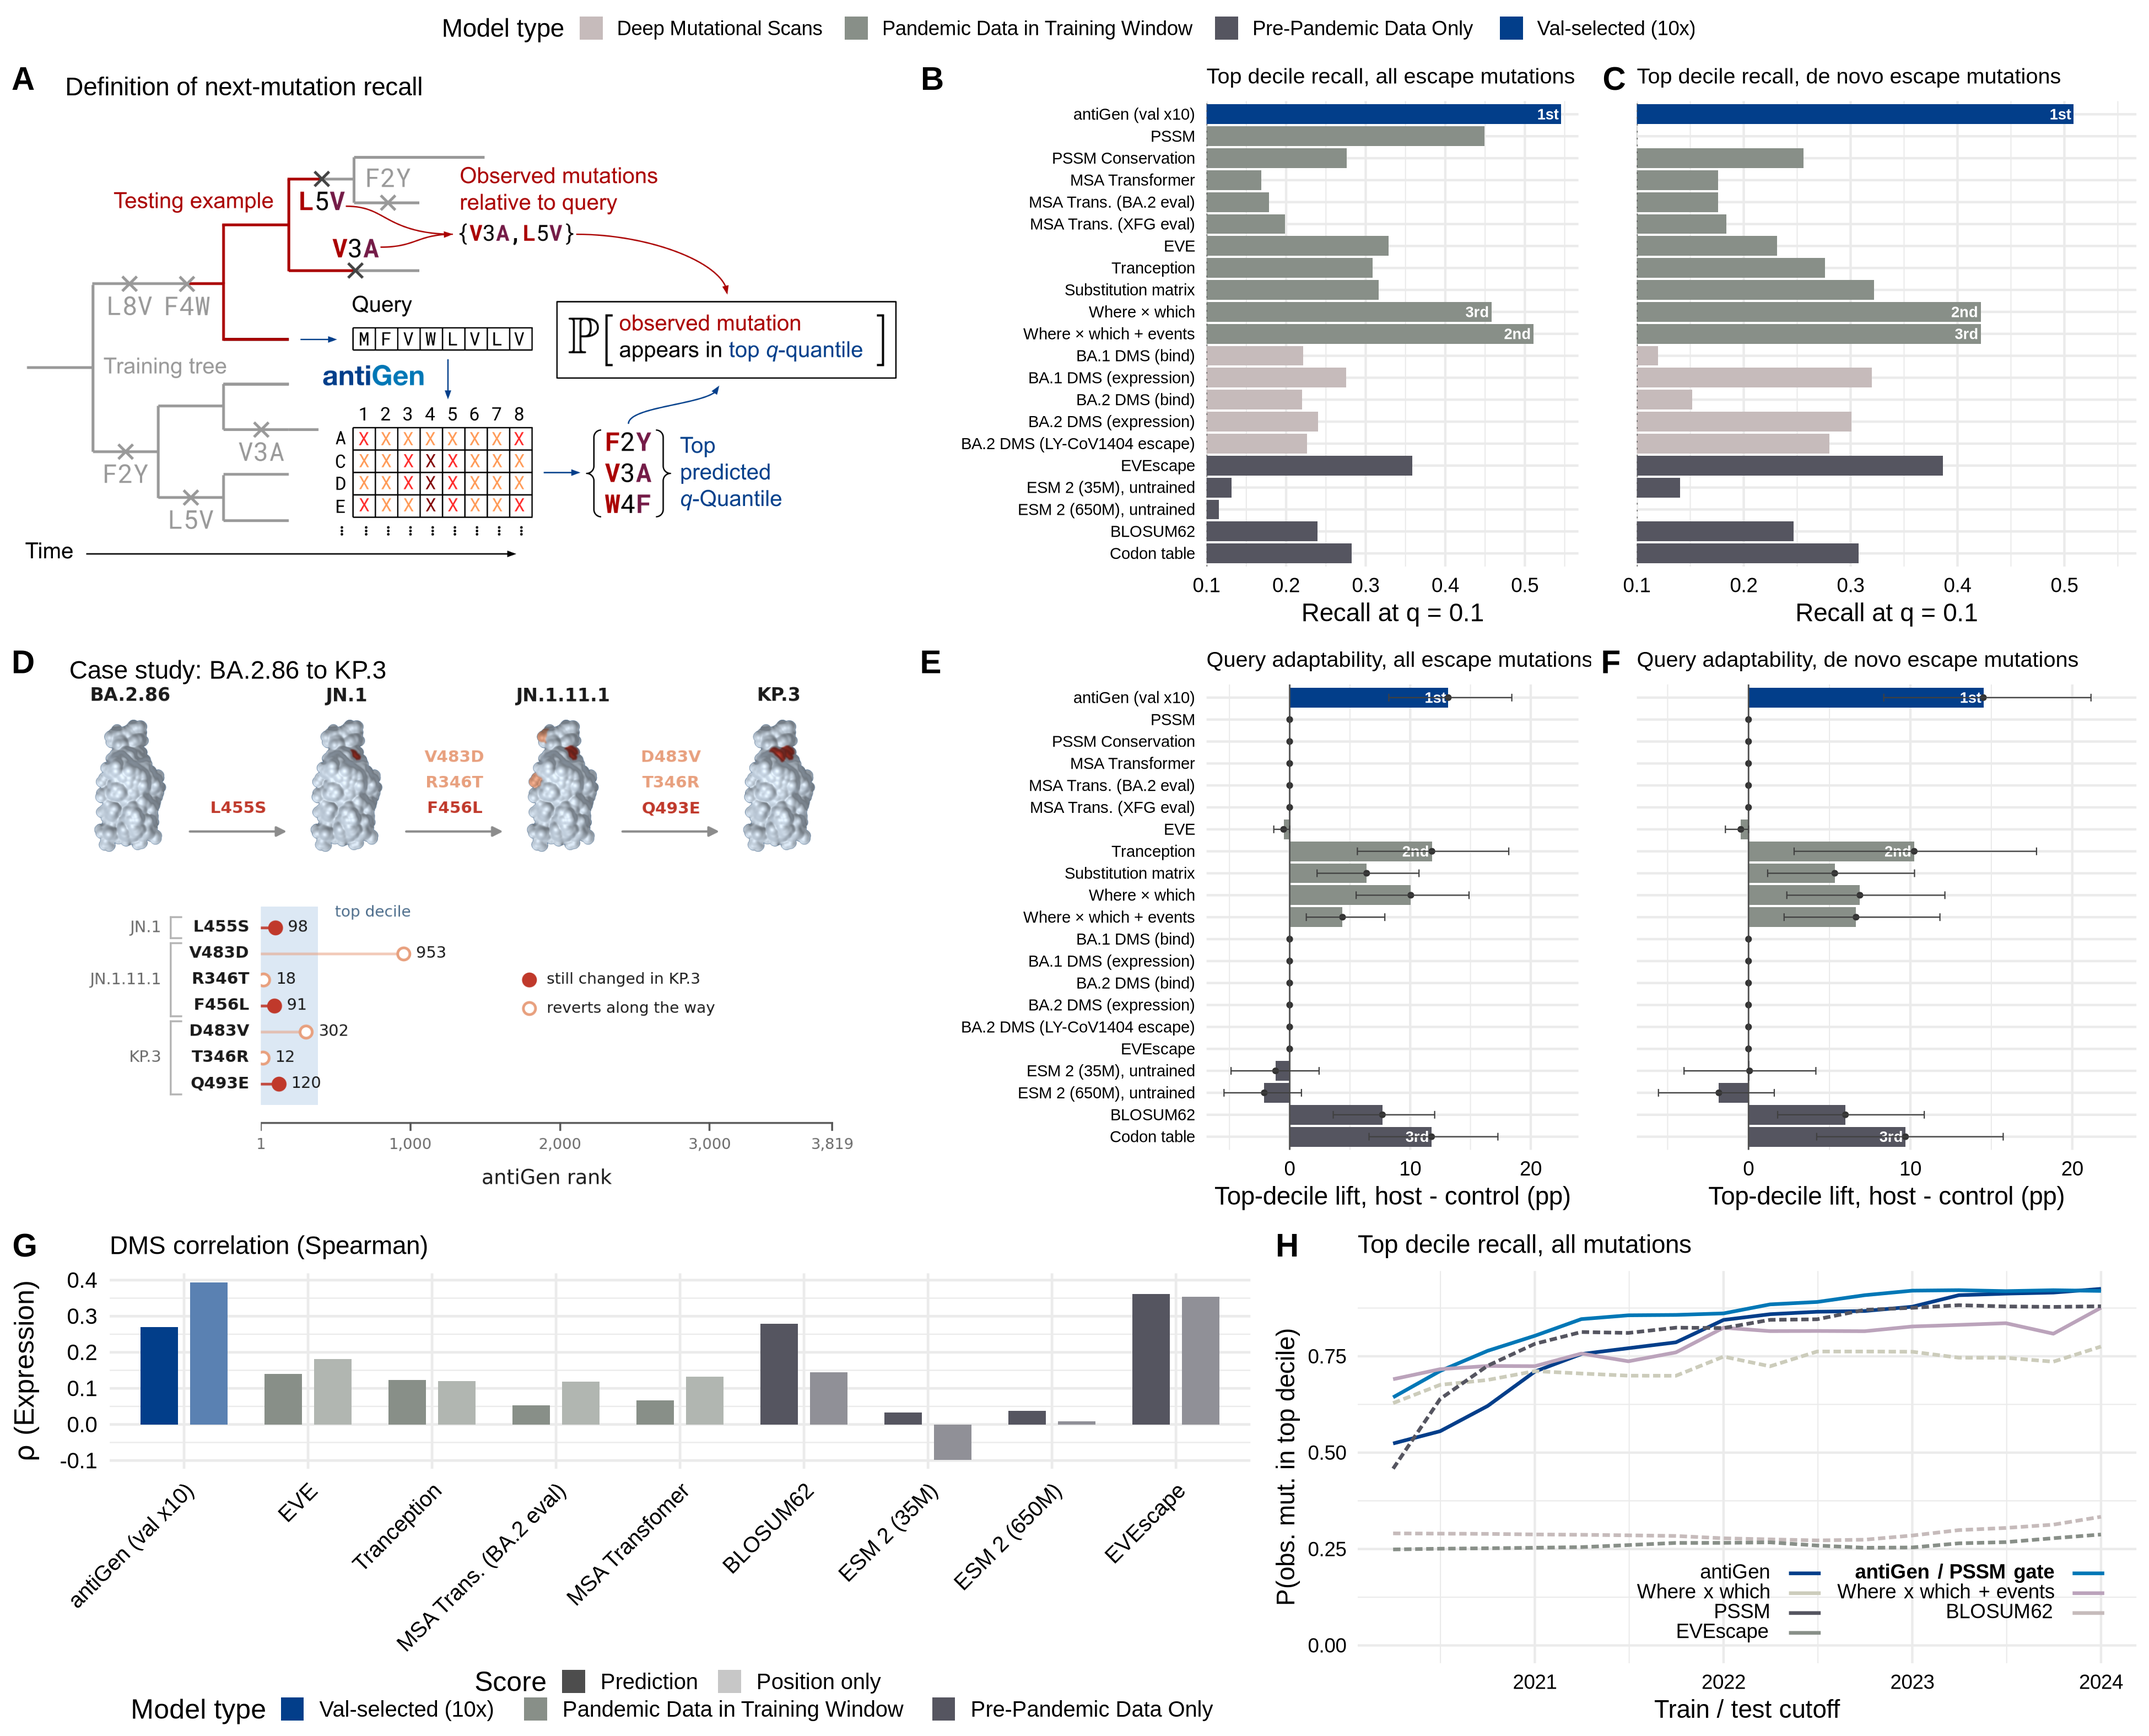
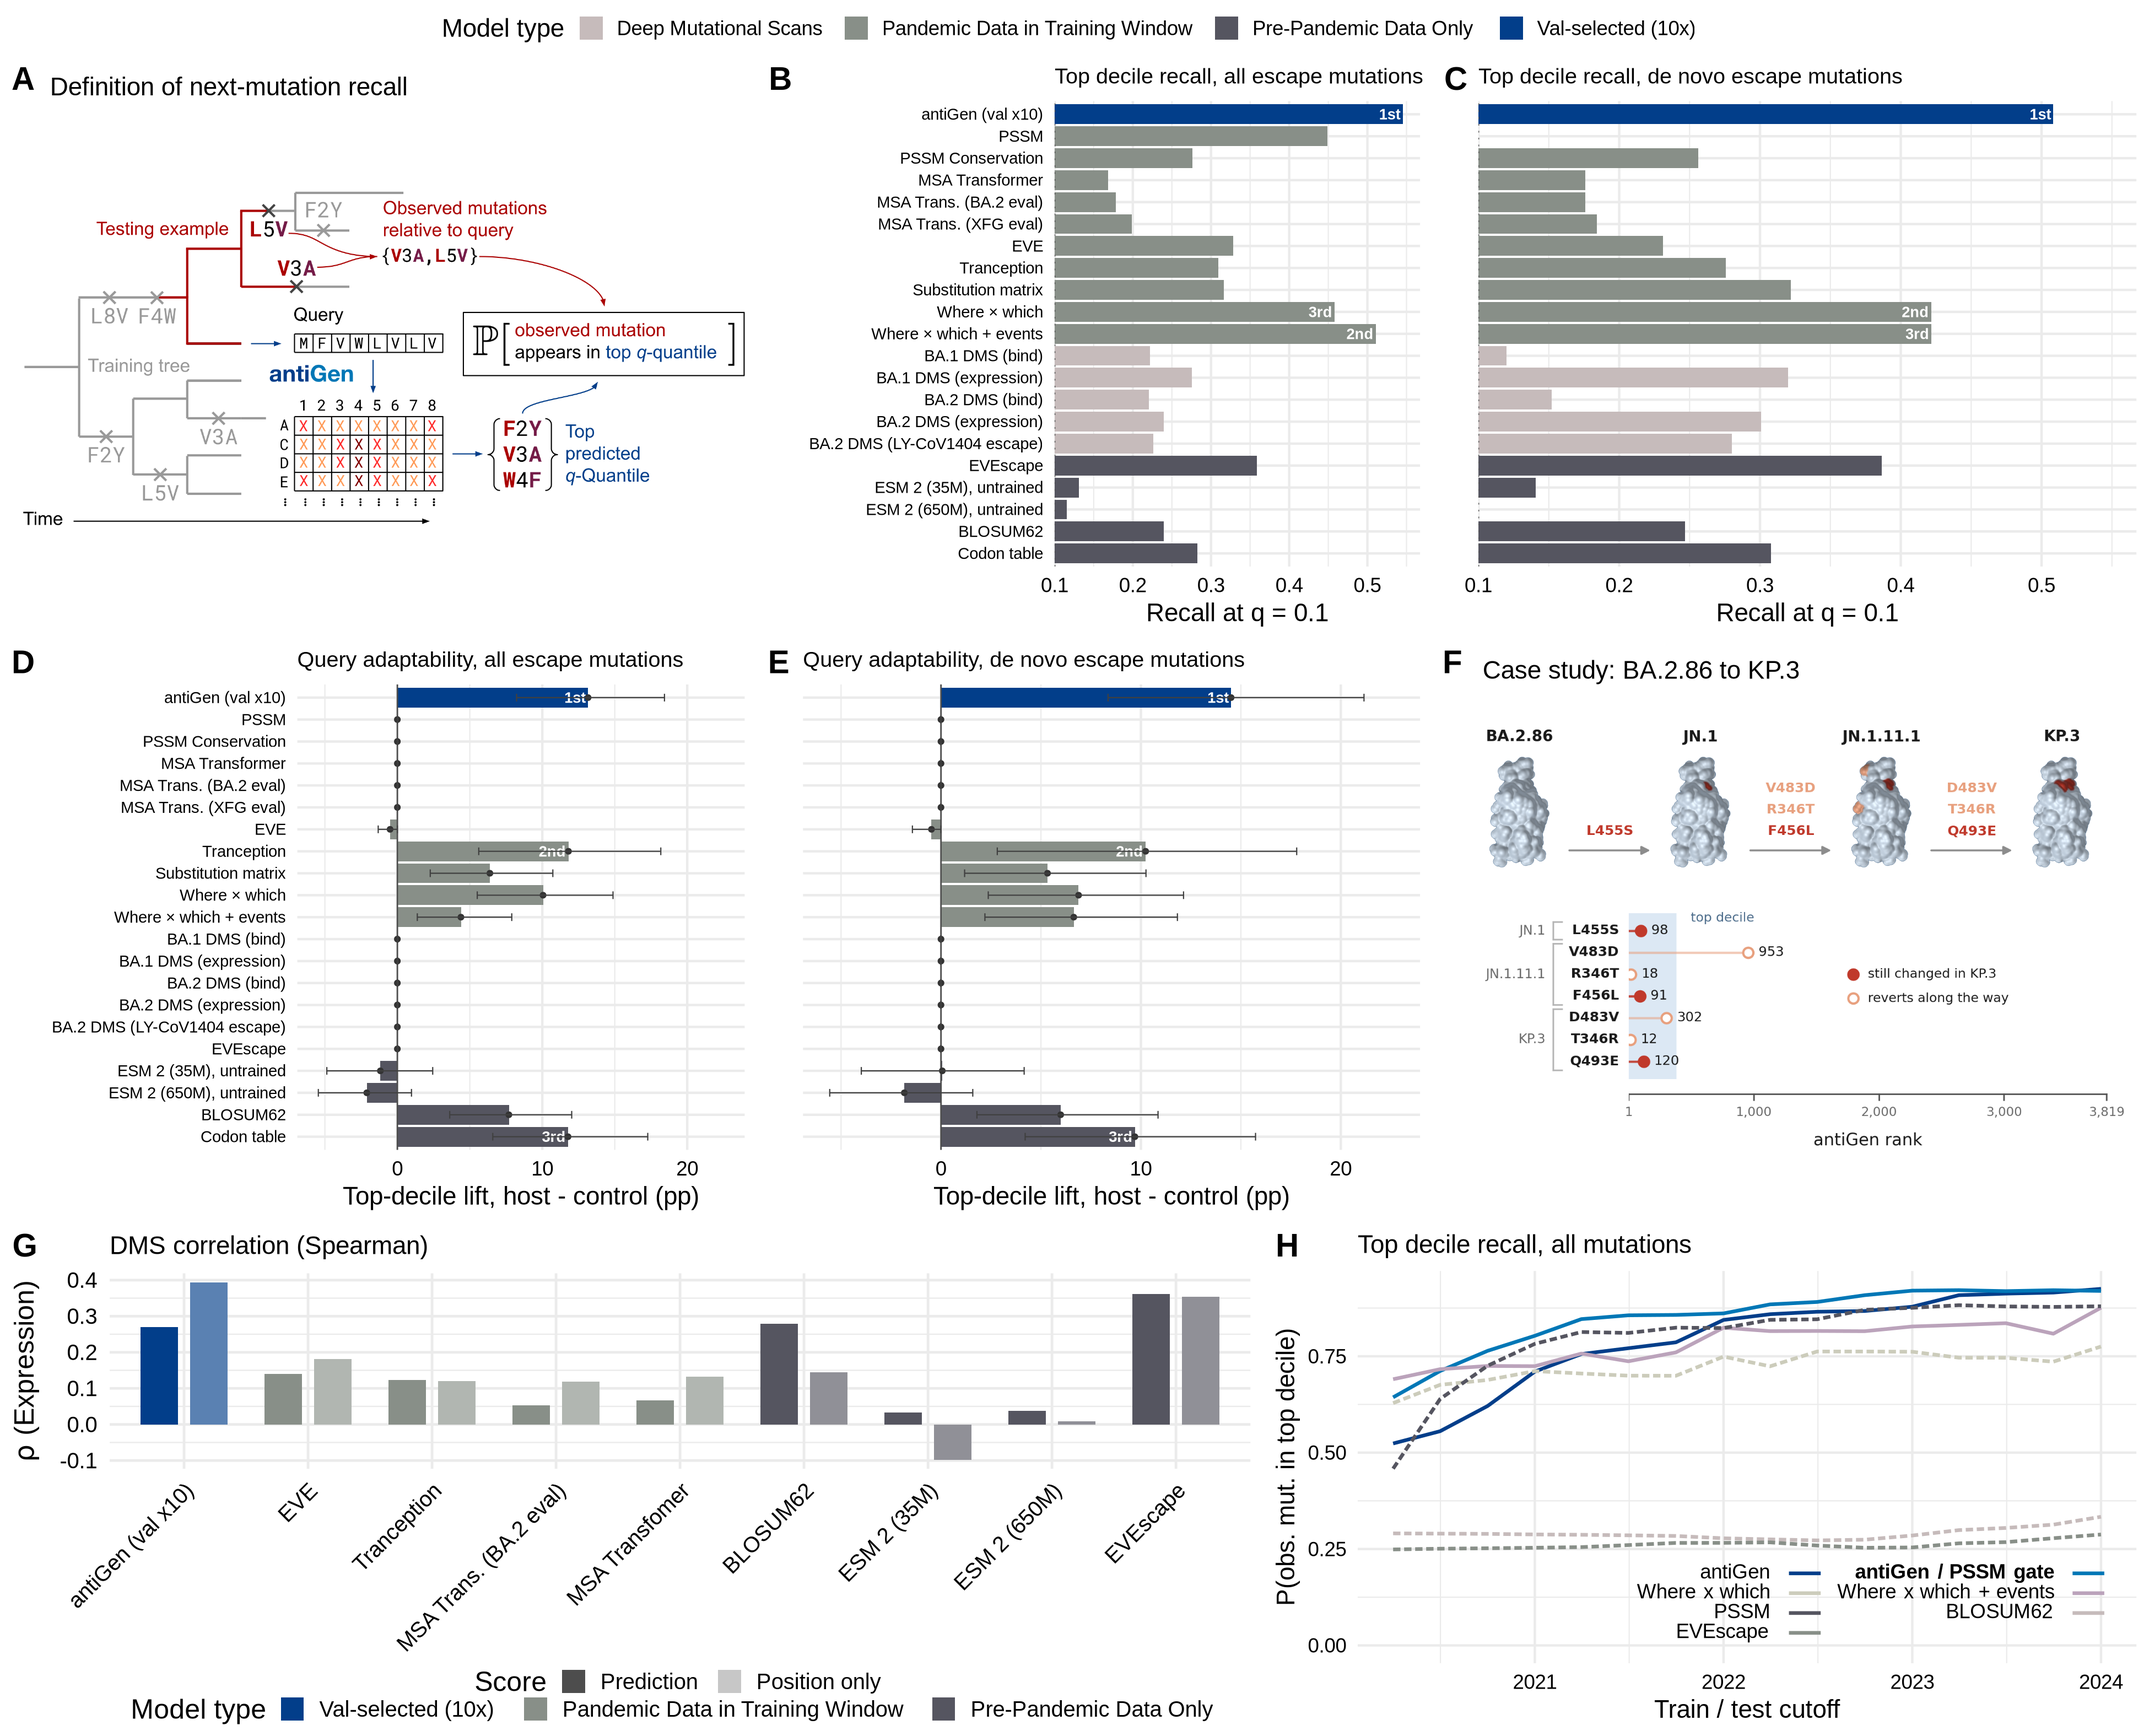
Reorder row 2 to background, background, case study
Row 2 is now bg_all, bg_dn, case_study, lettered D E F by position so it
still reads left to right. Both rows now carry bar panels in columns 1 and
2, so B/C sit above D/E, and the case study ends the row.

COL_W had to move with it. At c(2.2, 1.65, 1.35), sized when column 1 held
the only image, the case study rendered about 3.4in against the 5.5in it
is drawn at, taking its 8pt text to roughly 5pt. The first rebalance took
the width from column 2 and clipped panel B's title -- a ggplot title is
clipped at the panel edge rather than wrapped, so it fails silently. The
width now comes from column 1, whose two panels can best afford it, and
all three columns were rechecked rather than only the one changed.

diff --git a/experiments/multitree/NOTES.md b/experiments/multitree/NOTES.md
@@ -11500,3 +11500,30 @@ file, so switching back is a re-run of `draw_path_panel.py` against the old CSV.
 ### Code
 
 * `antiGen-figures/data/ba286_to_kp3_ranks_2023-01-01.csv` -- new.
+
+## 106. Row 2 reordered, and the column widths that had to move with it (2026-11-02)
+
+Row 2 is now `bg_all, bg_dn, case_study`, lettered D E F by POSITION so it still reads
+left to right. Both rows now carry bar panels in columns 1 and 2, so B/C sit directly
+above D/E -- the same kind of panel over the same roster -- and the case study, which
+is an image and shares its shape with nothing, ends the row where it interrupts
+nothing.
+
+**The reorder alone was not finished work.** `COL_W` was `c(2.2, 1.65, 1.35)`, sized
+when column 1 held the only image. Moving the case study to column 3 put a fixed-aspect
+image drawn at 5.5in into the narrowest column: it rendered about **3.4in**, taking its
+8pt text to roughly **5pt**. A reorder that silently shrinks a panel below legibility is
+not a layout change, it is a defect.
+
+Rebalancing took two goes, and the first was wrong in an instructive way.
+`c(1.95, 1.5, 1.8)` took the width from column 2, which **clipped panel B's title** --
+"Top decile recall, all escape muta". A ggplot title is clipped at the panel edge
+rather than wrapped, so it fails silently and only at the glyph that falls off.
+`c(1.85, 1.65, 1.75)` takes it from column 1 instead, which holds the two panels that
+can best afford it: the cartoon is a wide image, and the background panel's longest
+label (`BA.2 DMS (LY-CoV1404 escape)`) still fits. Checked all three columns
+afterwards rather than only the one that was changed.
+
+### Code
+
+* `antiGen-figures/figures/fig_sc2_revised.R` -- row 2 order, `COL_W`.
